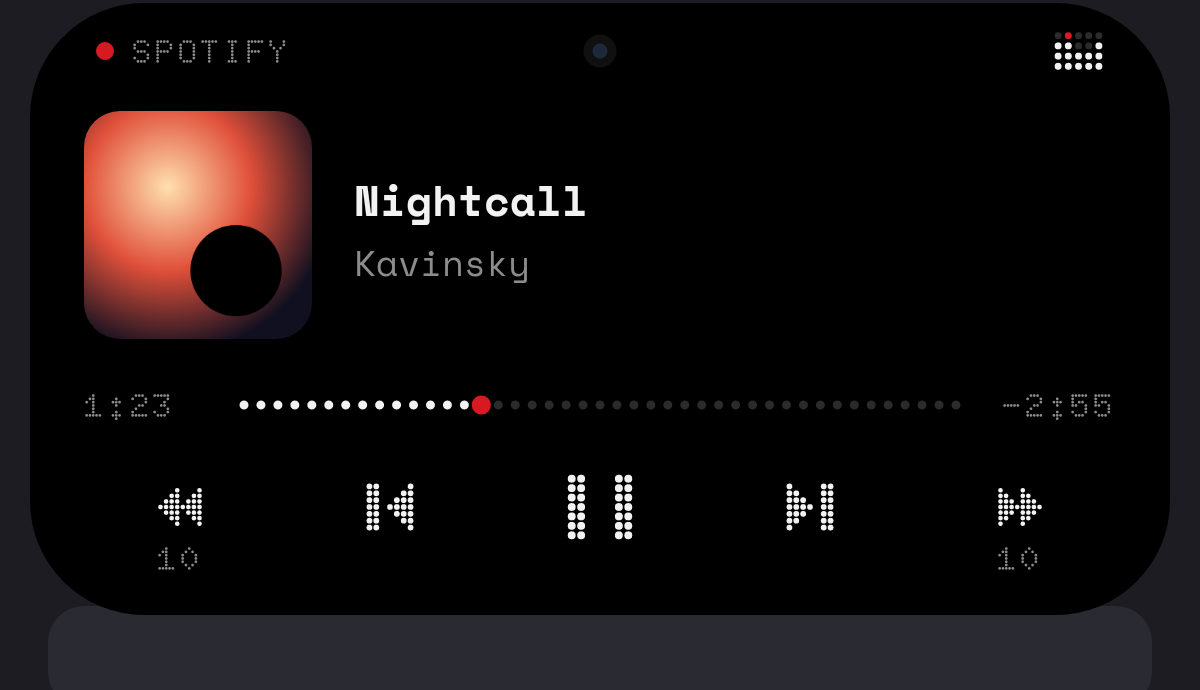
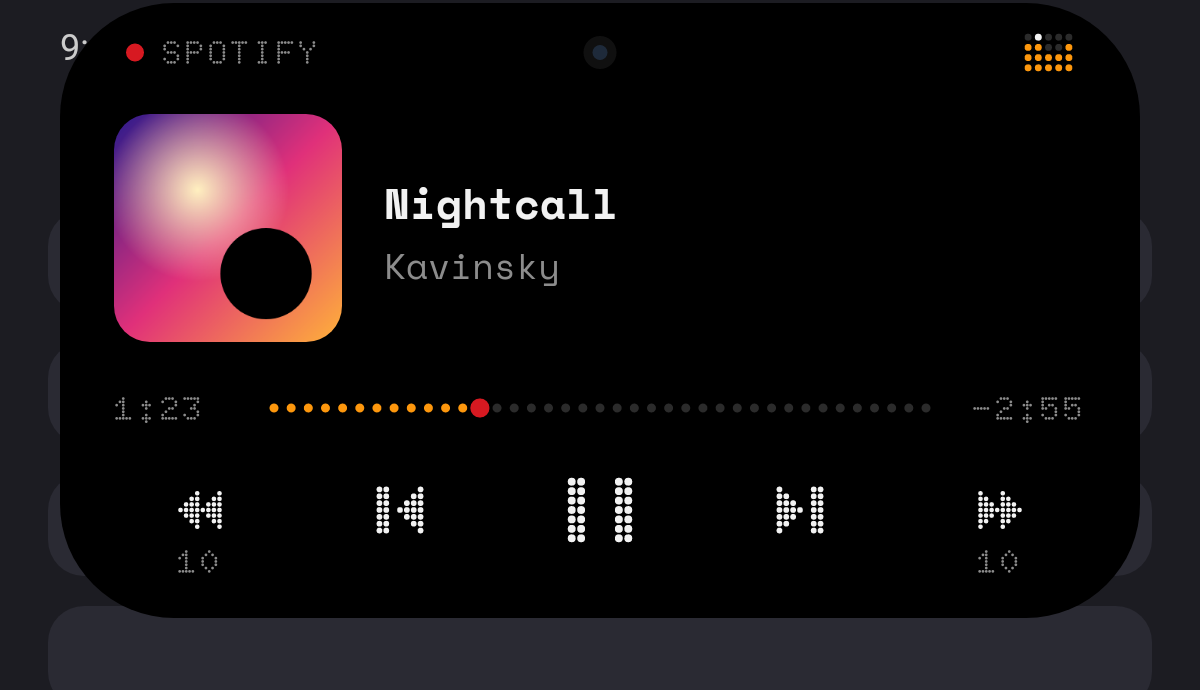
Colour dot matrix: tint dot art and equaliser from the album cover
- DotArt keeps each cell's colour (saturation nudged up, brightness lifted
  so it glows on black; near-greys stay white) and picks the cover's most
  vivid colour as an accent.
- With the new "Colour dots" setting (on by default) the halftone art is
  drawn in colour, and the equaliser and played part of the progress bar
  use the accent. The peak dot turns white so it still stands out. Off
  gives the classic white dots with a red peak.

Claude-Session: https://claude.ai/code/session_013Ux6V4Mu22KpPNhHEWNT6s

diff --git a/app/src/main/java/com/wallisland/island/DotArt.kt b/app/src/main/java/com/wallisland/island/DotArt.kt
@@ -3,6 +3,7 @@ package com.wallisland.island
 import android.graphics.Bitmap
 import android.graphics.BitmapShader
 import android.graphics.Canvas
+import android.graphics.Color
 import android.graphics.ColorMatrix
 import android.graphics.ColorMatrixColorFilter
 import android.graphics.Matrix
@@ -12,11 +13,16 @@ import android.graphics.Shader
 import kotlin.math.sqrt
 
 /**
- * Turns a picture into a halftone grid of white dots, dot size following brightness.
+ * Turns a picture into a halftone grid of dots, dot size following brightness. Dots are white, or
+ * (when [draw] is asked for colour) tinted with the picture's own colours, like a colour halftone print.
  * Album art and avatars become part of the dot-matrix look instead of fighting it.
  */
 class DotArt(source: Bitmap, private val grid: Int) {
     private val levels = FloatArray(grid * grid)
+    private val colors = IntArray(grid * grid)
+
+    /** The cover's most vivid colour, brightened to read on black. Used to tint the equaliser. */
+    val accent: Int
 
     init {
         val small = Bitmap.createScaledBitmap(source.copyIfHardware(), grid, grid, true)
@@ -31,14 +37,16 @@ class DotArt(source: Bitmap, private val grid: Int) {
             levels[i] = l
             if (l < lo) lo = l
             if (l > hi) hi = l
+            colors[i] = vivid(c)
         }
+        accent = pickAccent(px)
         // Stretch contrast so dark covers still produce a readable pattern.
         val span = (hi - lo).coerceAtLeast(0.15f)
         for (i in levels.indices) levels[i] = ((levels[i] - lo) / span).coerceIn(0f, 1f)
         if (small !== source) small.recycle()
     }
 
-    fun draw(canvas: Canvas, box: RectF, paint: Paint, round: Boolean, alpha: Int) {
+    fun draw(canvas: Canvas, box: RectF, paint: Paint, round: Boolean, alpha: Int, colored: Boolean = false) {
         val pitch = box.width() / grid
         val maxR = pitch * 0.5f
         val cx0 = box.centerX()
@@ -59,7 +67,7 @@ class DotArt(source: Bitmap, private val grid: Int) {
                 paint.alpha = alpha
                 canvas.drawCircle(x, y, maxR * 0.28f, paint)
             } else {
-                paint.color = Look.WHITE
+                paint.color = if (colored) colors[row * grid + col] else Look.WHITE
                 paint.alpha = alpha
                 canvas.drawCircle(x, y, maxR * (0.3f + 0.62f * v), paint)
             }
@@ -68,6 +76,32 @@ class DotArt(source: Bitmap, private val grid: Int) {
     }
 
     companion object {
+        /** Keeps the hue, lifts saturation a touch and brightness a lot, so colours glow on black. */
+        private fun vivid(c: Int): Int {
+            val hsv = FloatArray(3)
+            Color.colorToHSV(c or (0xFF shl 24), hsv)
+            hsv[1] = (hsv[1] * 1.25f).coerceAtMost(1f)
+            hsv[2] = hsv[2].coerceAtLeast(0.72f)
+            // Near-grey pixels stay a clean white rather than a muddy tint.
+            if (hsv[1] < 0.12f) return Look.WHITE
+            return Color.HSVToColor(hsv)
+        }
+
+        private fun pickAccent(px: IntArray): Int {
+            val hsv = FloatArray(3)
+            var best = Look.WHITE
+            var bestScore = 0.18f
+            for (c in px) {
+                Color.colorToHSV(c or (0xFF shl 24), hsv)
+                val score = hsv[1] * (0.35f + 0.65f * hsv[2])
+                if (score > bestScore) {
+                    bestScore = score
+                    best = c
+                }
+            }
+            return if (best == Look.WHITE) Look.WHITE else vivid(best)
+        }
+
         private fun Bitmap.copyIfHardware(): Bitmap =
             if (config == Bitmap.Config.HARDWARE) copy(Bitmap.Config.ARGB_8888, false) else this
     }

diff --git a/app/src/main/java/com/wallisland/island/IslandView.kt b/app/src/main/java/com/wallisland/island/IslandView.kt
@@ -492,7 +492,7 @@ class IslandView(context: Context, private val prefs: Prefs, private val host: H
         val dotted = prefs.dotArt
         val dots = if (small) mediaArtSmall else mediaArt
         when {
-            dotted && dots != null -> dots.draw(canvas, b, dotPaint, round = small, alpha = alpha)
+            dotted && dots != null -> dots.draw(canvas, b, dotPaint, round = small, alpha = alpha, colored = prefs.dotColor)
             !dotted && mediaPicture != null ->
                 mediaPicture!!.draw(canvas, b, if (small) b.width() / 2f else context.dp(12f), alpha)
             else -> {
@@ -514,6 +514,12 @@ class IslandView(context: Context, private val prefs: Prefs, private val host: H
         }
     }
 
+    /** Equaliser dots take the cover's accent colour when colour dots are on. */
+    private fun eqColor(): Int = if (prefs.dotColor) mediaArt?.accent ?: Look.WHITE else Look.WHITE
+
+    /** The peak dot: red on a white equaliser, white on a coloured one. */
+    private fun eqPeak(): Int = if (eqColor() == Look.WHITE) Look.RED else Look.WHITE
+
     /** A fake-but-convincing equaliser: dot columns breathing on offset sine waves. */
     private fun drawVisualizer(canvas: Canvas, right: Float, cy: Float, pitch: Float, cols: Int, rows: Int, playing: Boolean, alpha: Int) {
         val t = SystemClock.uptimeMillis() / 1000f
@@ -530,8 +536,8 @@ class IslandView(context: Context, private val prefs: Prefs, private val host: H
                 dotPaint.color = when {
                     !lit -> Look.DOT_OFF
                     !playing -> Look.GREY
-                    row == rows - level && level == rows -> Look.RED
-                    else -> Look.WHITE
+                    row == rows - level && level == rows -> eqPeak()
+                    else -> eqColor()
                 }
                 dotPaint.alpha = alpha
                 canvas.drawCircle(left + pitch * (c + 0.5f), top + pitch * (row + 0.5f), r, dotPaint)
@@ -645,7 +651,7 @@ class IslandView(context: Context, private val prefs: Prefs, private val host: H
             val isHead = dur > 0 && i == head
             dotPaint.color = when {
                 isHead -> Look.RED
-                dur > 0 && i < head -> Look.WHITE
+                dur > 0 && i < head -> eqColor()
                 else -> Look.DOT_OFF
             }
             dotPaint.alpha = alpha

diff --git a/app/src/main/java/com/wallisland/island/MainActivity.kt b/app/src/main/java/com/wallisland/island/MainActivity.kt
@@ -207,6 +207,8 @@ class MainActivity : Activity() {
         val card = card()
         card.addView(toggleRow("Dot art", "Render album art and avatars as halftone dots", prefs.dotArt) { prefs.dotArt = it })
         card.addView(divider())
+        card.addView(toggleRow("Colour dots", "Dot art and the equaliser take their colours from the album cover", prefs.dotColor) { prefs.dotColor = it })
+        card.addView(divider())
         card.addView(toggleRow("Hide in full screen", "Videos and games", prefs.hideFullscreen) { prefs.hideFullscreen = it })
         card.addView(divider())
         card.addView(toggleRow("Hide in landscape", null, prefs.hideLandscape) { prefs.hideLandscape = it })

diff --git a/app/src/main/java/com/wallisland/island/Prefs.kt b/app/src/main/java/com/wallisland/island/Prefs.kt
@@ -27,6 +27,7 @@ class Prefs(context: Context) {
     var hideLandscape by bool("hide_landscape", true)
     var haptics by bool("haptics", true)
     var dotArt by bool("dot_art", true)
+    var dotColor by bool("dot_color", true)
     var autoAlign by bool("auto_align", true)
 
     /** Idle pill size in dp. */

diff --git a/README.md b/README.md
@@ -22,6 +22,8 @@ design language: black, white, one red, and dots everywhere.
   - Drag along the dotted progress bar to scrub, or tap to jump.
   - Back 10 s, previous, play / pause, next and forward 10 s, all as dot-matrix buttons.
   - Tap the album art to switch between the real cover and the dot-matrix version.
+  - **Colour dots** (on by default): the dot art is a colour halftone of the cover, and the equaliser
+    and progress bar take the cover's strongest colour. Turn it off for classic white dots.
   - Tap the song title to open the music app.
 - **Notifications.** Only alerts that would make a sound open the island. Chats show the latest
   message. Tap to open the notification, or swipe up to dismiss it.
